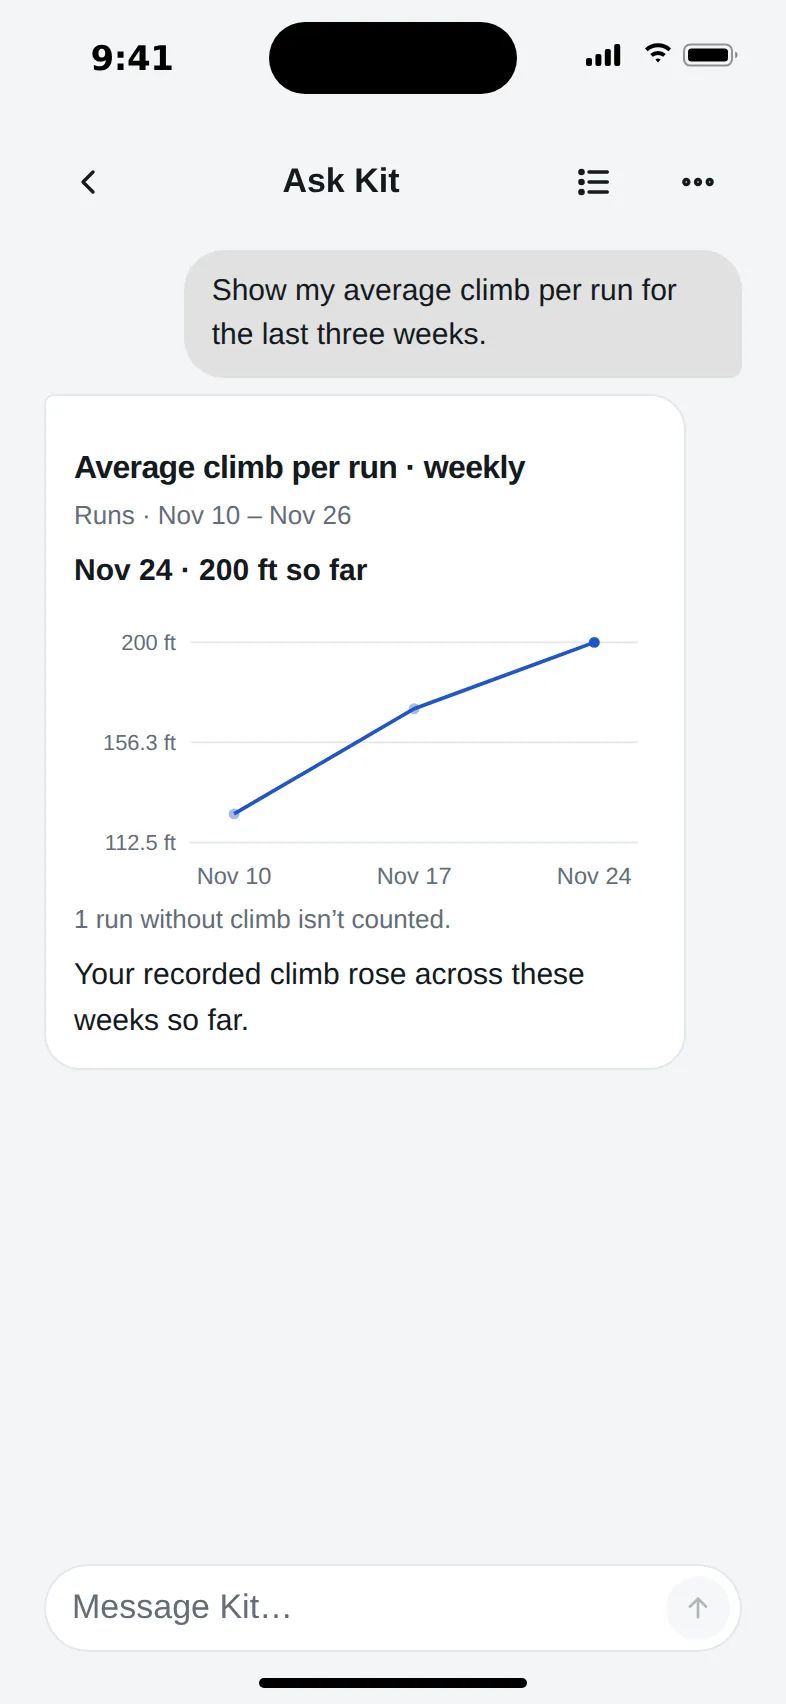
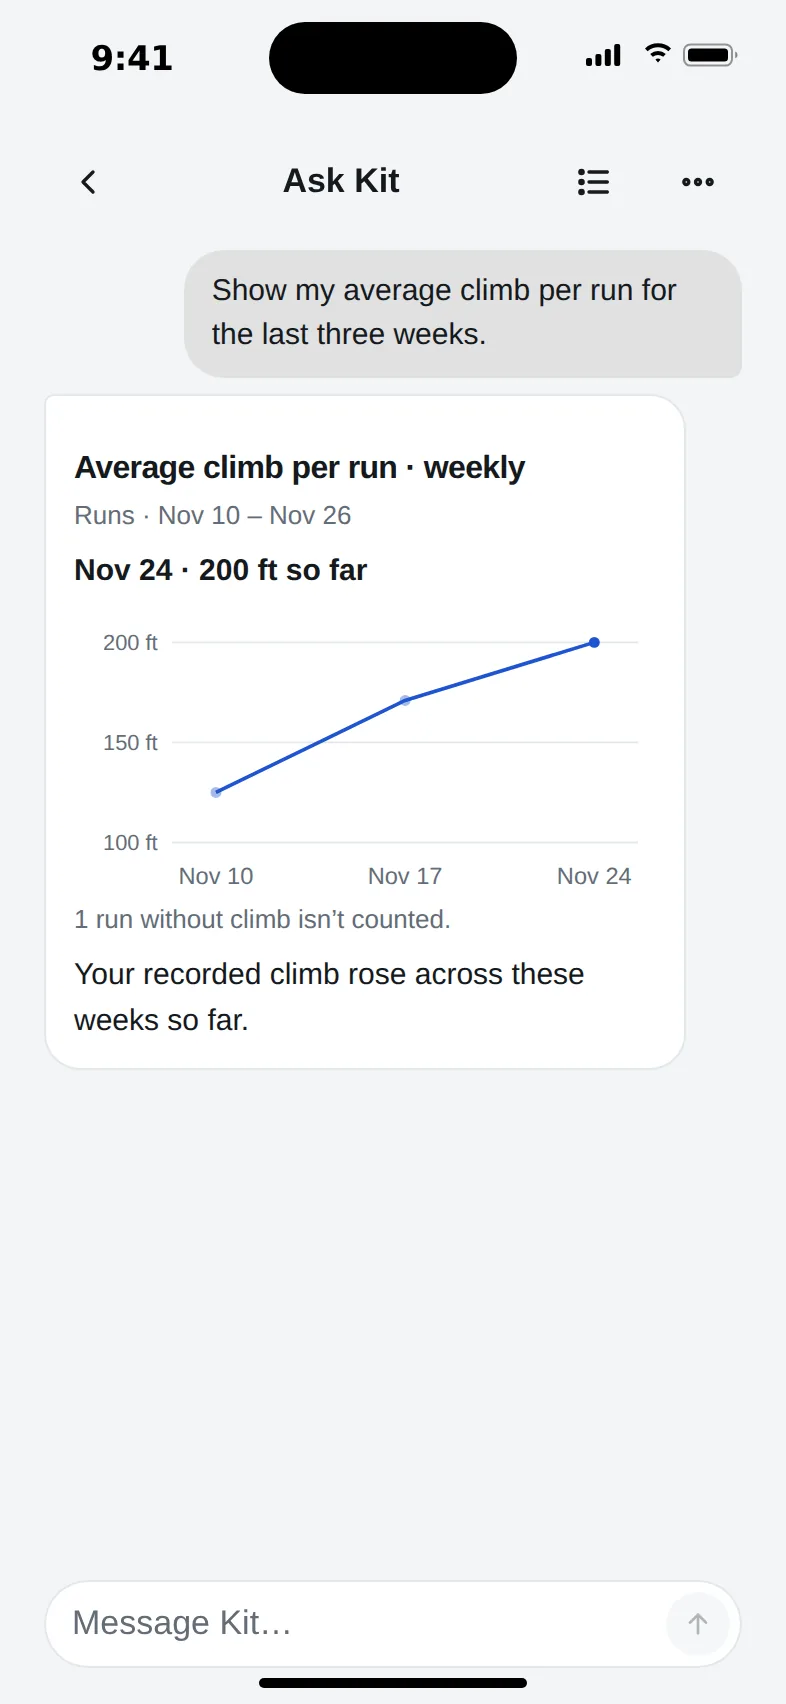
Refresh website Kit line example from final batch-two renderer

diff --git a/dev/screenshots/take.js b/dev/screenshots/take.js
@@ -286,6 +286,12 @@ async function say(page, text) {
       const kitInsightRoute = /\/api\/coach\/conversation(?:\/.*)?(?:\?.*)?$/;
       const kitInsightFixture = ['kit-insight-progress','kit-chart-progress'].includes(name);
       const kitExample = name === 'kit-chart-progress' ? KIT_CHART_EXAMPLE : KIT_COACH_EXAMPLE;
+      const chartMeRoute = '**/api/me';
+      if (name === 'kit-chart-progress') await page.route(chartMeRoute, async route => {
+        const response = await route.fetch(), me = await response.json();
+        return route.fulfill({response, json: {...me, ai_ok:true, coach:true, kit_chat:true, ai_paused:false,
+          ai_access:{...me.ai_access, coach:{entitled:true, available:true, reason:null}}}});
+      });
       if (kitInsightFixture) await page.route(kitInsightRoute, async route => {
         const request = route.request(), url = new URL(request.url());
         // Fixture only: exercise today's renderer without history or any provider call.
@@ -538,6 +544,9 @@ async function say(page, text) {
         if (name === 'kit-chart-progress') {
           if (await page.locator('.kit-chart circle').count() !== 3 || !/L/.test(await page.locator('.kit-chart-line').getAttribute('d') || '')) throw Error('Website chart requires the real joined-line card with three points.');
           if (await page.locator('.kit-chart rect').count()) throw Error('Average climb must be a line, not bars.');
+          const ticks = await page.locator('.kit-chart-tick').allTextContents();
+          if (JSON.stringify(ticks) !== JSON.stringify(['200 ft','150 ft','100 ft'])) throw Error('Website chart requires the released round axis labels.');
+          if (await page.getByText('Kit is unavailable. Your saved answers and draft are kept.', {exact:true}).count()) throw Error('Chart capture requires the ready fictional Kit state.');
         }
         if ((await page.locator('#kit-status').innerText()).trim()) throw Error('Kit insight screenshot should not show a stale-chat warning.');
       }
@@ -735,6 +744,7 @@ async function say(page, text) {
         delete el.dataset.captureSafeHidden;
       }));
       if (kitInsightFixture) await page.unroute(kitInsightRoute);
+      if (name === 'kit-chart-progress') await page.unroute(chartMeRoute);
       if (opt.lift) await page.evaluate(() => fetch('/api/activities/' + window.__liftId, {method: 'DELETE', headers: {'Content-Type': 'application/json'}}));
       // Remove only what this fictional review story added (entries, saved foods, messages) so the next pass and
       // the other screenshots start from the same demo data.

diff --git a/dev/screenshots/README.md b/dev/screenshots/README.md
@@ -16,4 +16,4 @@ Browser-captured website phone PNGs are whole 393×852 viewports at 2× (786×17
 
 These website captures draw a simulated status/home bar and use browser safe-area substitutions. **They are not native iPhone evidence.** For #415, reuse the scene names, routes and fictional fixtures in the native 6.9-inch UIKit Simulator at 1320 × 2868 when that run is available. If it times out, the separate browser fallback captures directly at 440 × 956 @3x, produces the same pixel dimensions, and must remain labeled `browser capture`; see `mobile/appstore/README.md`. Do not resize the 393 × 852 website captures. Native compilation, signed upload, App Store privacy answers, review and physical-device acceptance are separate release steps.
 
-`kit-chart-progress` is the separate release-gated homepage line example. It captures the real batch-2 Kit chart renderer frozen at `1513cc0b` (captured at `1a949cef`; every `app/` and `mobile/` blob is identical), using its tested imperial weekly-average climb fixture (125/171/200 ft). The app owns the joined line, points, units and incomplete-week note; the website displays the whole app screen, not a hand-built chart. `kit-chart-answer.json` is a fictional UI stand-in, not a provider response. Keep this website change Draft until the batch-2 release is live and approved for publication.
+`kit-chart-progress` is the release-gated homepage line example. It captures the final batch-2 Kit chart renderer at `0baccc26` using the tested imperial weekly-average climb fixture (125/171/200 ft). The real app draws joined points, round 100/150/200 ft axis labels, dates, selected values and its incomplete-data note; the website displays the whole app screen. The ready-state account fixture is scoped to this capture and mirrors `dev/tests/kit_chart_ui.cjs`, so no unavailable banner obscures the example. `kit-chart-answer.json` is a fictional renderer stand-in, not a provider response. Keep this website change Draft until #1564 merges, the source is verified against that release, and Ben approves website publication.
